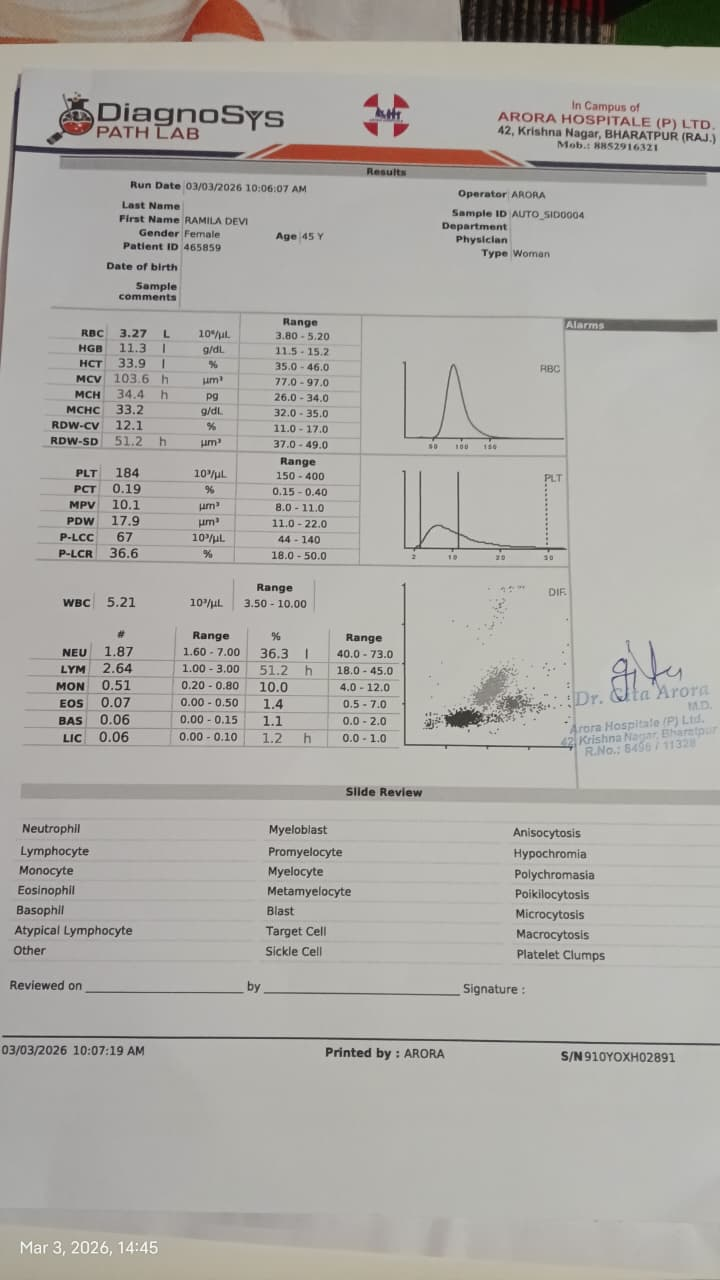
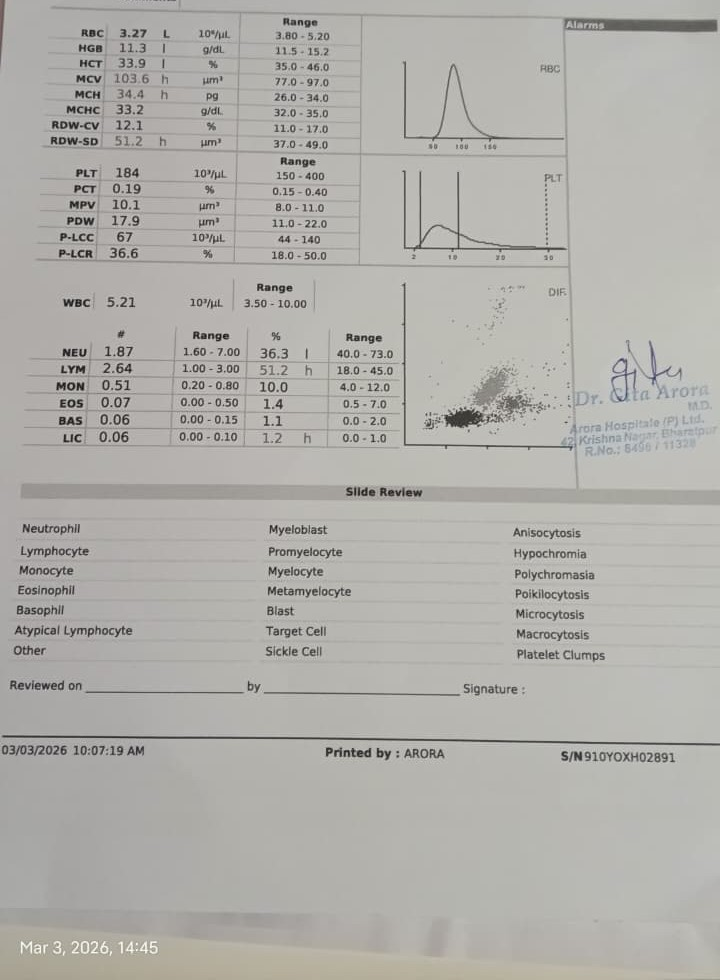
updated project files

diff --git a/extractor.py b/extractor.py
@@ -1,8 +1,99 @@
-from paddleocr import PaddleOCR
+import streamlit as st
+from PIL import Image
+import pytesseract
+import json
+from transformers import pipeline
+# from transformers import pipeline
+import streamlit as st
 
-ocr = PaddleOCR(use_angle_cls=True, lang='en')
+@st.cache_resource
+def load_model():
+    return pipeline("text2text-generation", model="google/flan-t5-base")
 
-result = ocr.ocr("report.jpeg")
+generator = load_model()
 
-for line in result:
-    print(line[1][0])
+st.set_page_config(page_title="Invoice Information Extractor", layout="wide")
+st.title("📑 Invoice Information Extractor")
+
+# Load HuggingFace model
+# generator = pipeline("text-generation", model="google/flan-t5-base")
+
+
+# OCR FUNCTION
+def extract_text_from_file(uploaded_file):
+    try:
+        image = Image.open(uploaded_file)
+
+        # Convert image to grayscale
+        gray_image = image.convert("L")
+
+        text = pytesseract.image_to_string(gray_image)
+
+        return text
+
+    except Exception as e:
+        st.error(f"OCR Error: {str(e)}")
+        return None
+
+
+# AI PROCESSING FUNCTION
+def process_with_ai(text):
+
+    prompt = f"""
+Extract invoice information and convert to JSON.
+
+Fields:
+invoice_number
+invoice_date
+vendor_name
+total_amount
+
+Invoice Text:
+{text}
+"""
+
+    result = generator(prompt, max_length=256)
+
+    return result[0]["generated_text"]
+
+
+uploaded_file = st.file_uploader("Upload Invoice Image", type=["png", "jpg", "jpeg"])
+
+
+if uploaded_file:
+
+    st.image(uploaded_file, caption="Uploaded Invoice", use_column_width=True)
+
+    if st.button("Extract Information"):
+
+        with st.spinner("Extracting text from image..."):
+
+            extracted_text = extract_text_from_file(uploaded_file)
+
+        if extracted_text:
+
+            st.subheader("🔎 Extracted Text")
+            st.text(extracted_text)
+
+            st.subheader("🤖 Processing with HuggingFace AI...")
+
+            ai_output = process_with_ai(extracted_text)
+
+            st.subheader("📋 AI Output")
+            st.text(ai_output)
+
+            try:
+                json_data = json.loads(ai_output)
+
+                st.subheader("📊 Extracted JSON")
+                st.json(json_data)
+
+                st.download_button(
+                    label="Download JSON",
+                    data=json.dumps(json_data, indent=4),
+                    file_name="invoice_data.json",
+                    mime="application/json"
+                )
+
+            except:
+                st.warning("AI output JSON format me nahi tha.")
